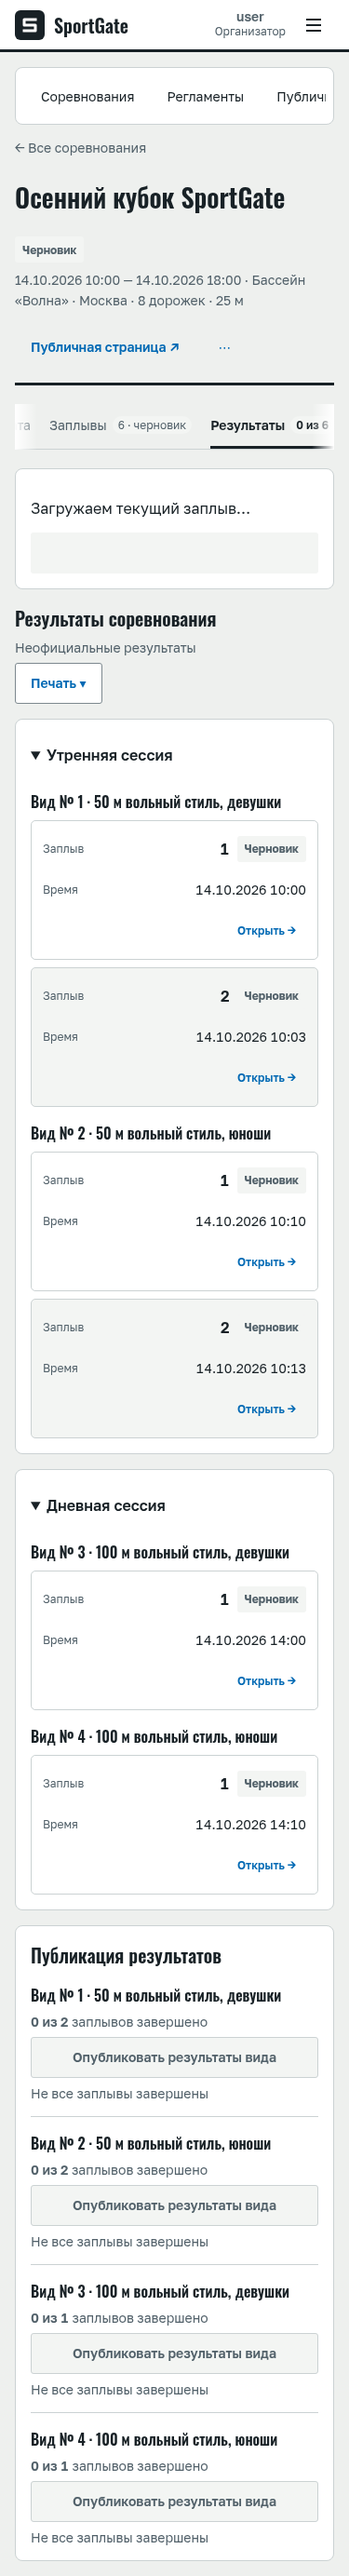
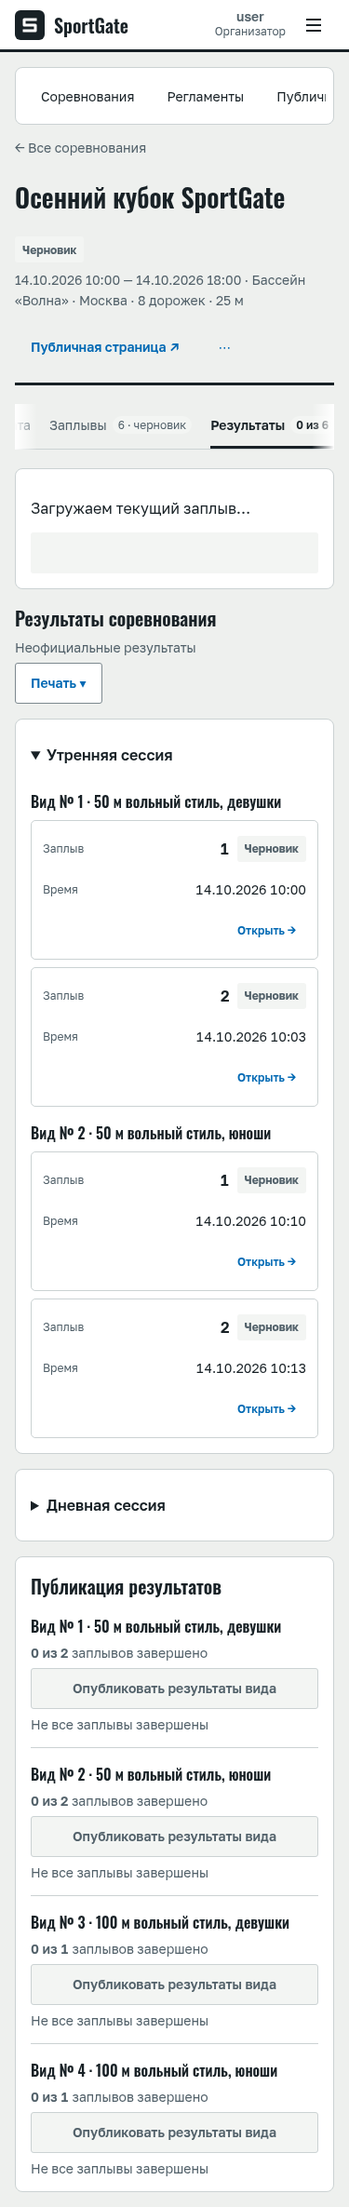
fix(organizer): restore results session list compatibility

diff --git a/sport-platform/frontend/src/features/organizer/OrganizerResultsPage.tsx b/sport-platform/frontend/src/features/organizer/OrganizerResultsPage.tsx
@@ -13,9 +13,10 @@ import { changeCompetitionUnitPublication } from '../../api/results.api'
 import { publishDisciplineResults } from '../../api/scheduling.api'
 import { LIVE_POLL_MS, usePublicData } from '../public/usePublicData'
 import { formatDate, useOrganizerEvent } from './organizer-event-context'
-import type { Heat } from '../../api/organizer.types'
+import type { Heat, SwimDiscipline } from '../../api/organizer.types'
 import styles from './ResultsTab.module.css'
 
+const disciplineNumber = (discipline: SwimDiscipline, index: number) => discipline.number ?? discipline.orderInSession ?? index + 1
 const published = (heat: Heat) => ['FINISHED', 'COMPLETED'].includes(heat.status)
 const complete = (heat: Heat) => published(heat) || (
   ['PUBLISHED', 'IN_PROGRESS'].includes(heat.status) && heat.entries.length > 0 &&
@@ -47,7 +48,14 @@ export function OrganizerResultsPage() {
     const units = heats.filter(h => h.eventDisciplineId === confirmation.id)
     const ok = await run(async () => {
       if (confirmation.published) await publishDisciplineResults(units, accessToken)
-      else for (const heat of units.filter(published)) await changeCompetitionUnitPublication(heat.id, false, accessToken)
+      else for (const heat of units.filter(published)) {
+        try {
+          await changeCompetitionUnitPublication(heat.id, false, accessToken)
+        } catch (cause) {
+          const message = cause instanceof Error ? cause.message : 'Повторите попытку.'
+          throw new Error(`Заплыв ${heat.sequenceNumber ?? heat.label}: ${message}`)
+        }
+      }
     })
     if (ok) {
       setConfirmation(null)
@@ -75,14 +83,14 @@ export function OrganizerResultsPage() {
       confirmLabel={confirmation.published ? 'Опубликовать' : 'Снять публикацию'} tone={confirmation.published ? 'primary' : 'danger'}
       busy={busy} error={error} onClose={() => setConfirmation(null)} onConfirm={() => void confirmPublication()} />}
     {!heats.length ? <EmptyState title="Заплывы пока не сформированы" action={<Button as={Link} to={`/organizer/events/${event.id}/heats`}>К заплывам</Button>}><p>Сначала сформируйте заплывы, затем введите результаты в судейской панели.</p></EmptyState> : <div className={styles.columns}>
-      <section className={styles.heatList} aria-label="Заплывы по сессиям">
-        {groups.map(group => <details className={styles.card} key={group.id} open>
+      <section className={`fl-judging-list ${styles.heatList}`} aria-label="Заплывы по сессиям">
+        {groups.map((group, index) => <details className={styles.card} key={group.id} open={index === 0}>
           <summary>{group.name}</summary>
           {group.disciplines.map(d => {
             const units = heats.filter(h => h.eventDisciplineId === d.id)
             if (!units.length) return null
             return <section key={d.id} className={styles.discipline}>
-              <h3>Вид № {d.number ?? d.orderInSession} · {d.name}</h3>
+              <h3>Вид № {disciplineNumber(d, event.disciplines.indexOf(d))} · {d.name}</h3>
               <div className={styles.tableScroll}>
                 <table className={`fl-table fl-table-compact ${styles.table}`}>
                   <caption className="fl-sr-only">Заплывы · {d.name}</caption>
@@ -91,7 +99,7 @@ export function OrganizerResultsPage() {
                     <td data-label="Заплыв" className={styles.number}>{heat.sequenceNumber ?? heat.label}</td>
                     <td data-label="Время" data-numeric>{formatDate(heat.scheduledAt, event.venue?.timezone)}</td>
                     <td data-label="Статус"><span className={styles.statuses}><StatusBadge kind="heat" code={heat.status} />{heat.entries.some(entry => entry.resultStatus === 'CORRECTED') && <StatusBadge kind="result" code="CORRECTED" />}</span></td>
-                    <td><Button as={Link} variant="ghost" to={`/operator/competition-units/${heat.id}?eventId=${event.id}`}>Открыть →</Button></td>
+                    <td><Button as={Link} variant="ghost" to={`/operator/competition-units/${heat.id}?eventId=${encodeURIComponent(event.id)}`}>Открыть →</Button></td>
                   </tr>)}</tbody>
                 </table>
               </div>
@@ -106,7 +114,7 @@ export function OrganizerResultsPage() {
           const allPublished = units.length > 0 && units.every(published)
           const reason = archived ? 'Соревнование в архиве: доступен только просмотр' : busy ? 'Дождитесь завершения текущего действия' : allPublished && units.some(h => h.status === 'COMPLETED') ? 'Результаты завершённого соревнования нельзя снять с публикации' : !units.length ? 'Сначала сформируйте заплывы' : !units.every(complete) ? 'Не все заплывы завершены' : undefined
           return <article className={styles.publicationRow} key={d.id}>
-            <h3>Вид № {d.number ?? index + 1} · {d.name}</h3>
+            <h3>Вид № {disciplineNumber(d, index)} · {d.name}</h3>
             <p className={styles.muted}><span className={styles.numeric}>{units.filter(complete).length} из {units.length}</span> заплывов завершено</p>
             <Button variant={!current && firstReady === d.id && !archived ? 'primary' : 'secondary'} disabled={!!reason} title={reason} aria-describedby={reason ? `publication-${d.id}` : undefined} onClick={() => { clearError(); setConfirmation({ id: d.id, published: !allPublished }) }}>{allPublished ? 'Снять публикацию' : 'Опубликовать результаты вида'}</Button>
             {reason && <small id={`publication-${d.id}`} className={styles.muted}>{reason}</small>}

diff --git a/sport-platform/frontend/src/features/organizer/PrintFormsControls.tsx b/sport-platform/frontend/src/features/organizer/PrintFormsControls.tsx
@@ -64,15 +64,19 @@ export function AwardsPrintControls() {
   const groups = event.disciplines.filter(d => !discipline || d.id === discipline).flatMap(d => d.ageGroups ?? []).filter((g, i, all) => all.findIndex(x => x.code === g.code) === i)
   const diplomaQuery = new URLSearchParams(query)
   if (group && scope === 'AGE_GROUP') diplomaQuery.set('ageGroupCode', group)
-  return <div className={resultsStyles.awards}>
-    <label className="fl-field">Область награждения<select value={scope} onChange={e => setScope(e.target.value)}><option value="AGE_GROUP">По возрастным группам</option><option value="ABSOLUTE">Абсолют</option></select></label>
-    <label className="fl-field">Число мест<input type="number" min="1" max="500" value={places} onChange={e => setPlaces(e.target.value)} /></label>
-    <label className="fl-field">Вид награждения<select value={discipline} onChange={e => { setDiscipline(e.target.value); setGroup('') }}><option value="">Все виды</option>{event.disciplines.map(d => <option key={d.id} value={d.id}>{d.name}</option>)}</select></label>
-    <label className="fl-field">Группа для грамот<select title={scope === 'ABSOLUTE' ? 'В абсолютном зачёте возрастные группы не используются' : undefined} disabled={scope === 'ABSOLUTE'} value={group} onChange={e => setGroup(e.target.value)}><option value="">Все группы</option>{groups.map(g => <option key={g.code} value={g.code}>{g.name}</option>)}</select>{scope === 'ABSOLUTE' && <small>В абсолютном зачёте возрастные группы не используются</small>}</label>
-    <ResultPdfButton path={`/api/v1/events/${event.id}/documents/awards.pdf?${query}`} filename="Лист-награждения.pdf" disabledReason={!validPlaces ? 'Введите число мест от 1 до 500' : undefined} accessToken={accessToken} label="Лист награждения (PDF)" />
-    <ResultPdfButton path={`/api/v1/events/${event.id}/documents/diplomas.pdf?${diplomaQuery}`} filename="Грамоты.pdf" disabledReason={!validPlaces ? 'Введите число мест от 1 до 500' : undefined} accessToken={accessToken} label="Грамоты (PDF)" />
-    <ResultPdfButton path={`/api/v1/events/${event.id}/documents/diplomas.pdf?sample=true`} filename="Пробная-грамота.pdf" accessToken={accessToken} label="Пробная грамота" />
-  </div>
+  return <>
+    <div className={resultsStyles.awards}>
+      <label className="fl-field">Область награждения<select value={scope} onChange={e => setScope(e.target.value)}><option value="AGE_GROUP">По возрастным группам</option><option value="ABSOLUTE">Абсолют</option></select></label>
+      <label className="fl-field">Число мест<input type="number" min="1" max="500" value={places} onChange={e => setPlaces(e.target.value)} /></label>
+      <label className="fl-field">Вид награждения<select value={discipline} onChange={e => { setDiscipline(e.target.value); setGroup('') }}><option value="">Все виды</option>{event.disciplines.map(d => <option key={d.id} value={d.id}>{d.name}</option>)}</select></label>
+      <label className="fl-field">Группа для грамот<select title={scope === 'ABSOLUTE' ? 'В абсолютном зачёте возрастные группы не используются' : undefined} disabled={scope === 'ABSOLUTE'} value={group} onChange={e => setGroup(e.target.value)}><option value="">Все группы</option>{groups.map(g => <option key={g.code} value={g.code}>{g.name}</option>)}</select>{scope === 'ABSOLUTE' && <small>В абсолютном зачёте возрастные группы не используются</small>}</label>
+    </div>
+    <ActionBar className={resultsStyles.printActions}>
+      <ResultPdfButton path={`/api/v1/events/${event.id}/documents/awards.pdf?${query}`} filename="Лист-награждения.pdf" disabledReason={!validPlaces ? 'Введите число мест от 1 до 500' : undefined} accessToken={accessToken} label="Лист награждения (PDF)" />
+      <ResultPdfButton path={`/api/v1/events/${event.id}/documents/diplomas.pdf?${diplomaQuery}`} filename="Грамоты.pdf" disabledReason={!validPlaces ? 'Введите число мест от 1 до 500' : undefined} accessToken={accessToken} label="Грамоты (PDF)" />
+      <ResultPdfButton path={`/api/v1/events/${event.id}/documents/diplomas.pdf?sample=true`} filename="Пробная-грамота.pdf" accessToken={accessToken} label="Пробная грамота" />
+    </ActionBar>
+  </>
 }
 
 // Local overflow sheet until the shared D04-2a OverflowMenu reaches main.

diff --git a/sport-platform/frontend/src/features/organizer/OrganizerResultsPage.test.tsx b/sport-platform/frontend/src/features/organizer/OrganizerResultsPage.test.tsx
@@ -108,10 +108,12 @@ it('keeps publication disabled when another heat in the same discipline is incom
 })
 
 it('opens the current heat through the existing judging route', () => {
+  state.context.event.id = 'cup / Москва'
   const heat = state.context.heats[0]
   state.live.data = { currentUnit: { id: heat.id, number: 1, disciplineName: '50 м' } }
   renderPage()
-  expect(screen.getByRole('link', { name: 'Открыть текущий заплыв' })).toHaveAttribute('href', `/operator/competition-units/${heat.id}?eventId=${state.context.event.id}`)
+  expect(screen.getByRole('link', { name: 'Открыть текущий заплыв' })).toHaveAttribute('href', `/operator/competition-units/${heat.id}?eventId=${encodeURIComponent(state.context.event.id)}`)
+  expect(screen.getByRole('link', { name: 'Открыть →' })).toHaveAttribute('href', `/operator/competition-units/${heat.id}?eventId=${encodeURIComponent(state.context.event.id)}`)
 })
 
 
@@ -120,4 +122,40 @@ it('explains why completed results cannot be unpublished', () => {
   renderPage()
   expect(screen.getByRole('button', { name: 'Снять публикацию' })).toBeDisabled()
   expect(screen.getByText('Результаты завершённого соревнования нельзя снять с публикации')).toBeVisible()
+})
+
+it('preserves the organizer session-list selector and opens only the first session', async () => {
+  state.context = { ...state.context, ...createFixtures() }
+  renderPage()
+  const list = screen.getByRole('region', { name: 'Заплывы по сессиям' })
+  expect(list).toHaveClass('fl-judging-list')
+  const first = within(list).getByText('Утренняя сессия').closest('details')
+  const second = within(list).getByText('Дневная сессия').closest('details')
+  expect(first).toHaveAttribute('open')
+  expect(second).not.toHaveAttribute('open')
+  await userEvent.click(within(list).getByText('Дневная сессия'))
+  expect(second).toHaveAttribute('open')
+})
+
+it('uses the same discipline number fallback in the heat list and publication list', () => {
+  state.context.event.disciplines[0].number = undefined
+  state.context.event.disciplines[0].orderInSession = 7
+  renderPage()
+  expect(screen.getAllByRole('heading', { name: /^Вид № 7 ·/ })).toHaveLength(2)
+})
+
+it('identifies the heat when unpublication fails', async () => {
+  state.context.heats = state.context.heats.map(h => ({ ...h, status: 'FINISHED', sequenceNumber: 3 }))
+  const failed = vi.fn()
+  state.context.run = vi.fn(async (action: () => Promise<unknown>) => {
+    try { await action(); return true }
+    catch (cause) { failed(cause); return false }
+  })
+  vi.mocked(changeCompetitionUnitPublication).mockRejectedValueOnce(new Error('Нет связи.'))
+  renderPage()
+  await userEvent.click(screen.getByRole('button', { name: 'Снять публикацию' }))
+  await userEvent.click(within(screen.getByRole('dialog')).getByRole('button', { name: 'Снять публикацию' }))
+  await waitFor(() => expect(failed).toHaveBeenCalledWith(new Error('Заплыв 3: Нет связи.')))
+  expect(screen.getByRole('dialog')).toBeVisible()
+  expect(state.toast).not.toHaveBeenCalled()
 })

diff --git a/sport-platform/frontend/src/features/organizer/ResultsTab.module.css b/sport-platform/frontend/src/features/organizer/ResultsTab.module.css
@@ -12,7 +12,7 @@
 .printHeading p { margin: 0; }
 .columns { display: grid; gap: var(--space-6); min-width: 0; }
 .discipline { margin-top: var(--space-4); min-width: 0; }
-.tableScroll { max-height: min(60vh, calc(var(--space-16) * 10)); overflow-x: auto; scrollbar-width: thin; overscroll-behavior-inline: contain; mask-image: linear-gradient(90deg, var(--color-text) calc(100% - var(--space-6)), transparent); scroll-padding-inline: var(--space-4); }
+.tableScroll { max-height: min(60vh, calc(var(--space-16) * 10)); overflow-x: auto; scrollbar-width: thin; overscroll-behavior-inline: contain; }
 .table { width: 100%; }
 .table td { white-space: normal; }
 .table td[data-numeric] { font-variant-numeric: var(--numeric-variant); }
@@ -41,10 +41,11 @@
 @media (min-width: 1366px) { .awards { grid-template-columns: repeat(4, minmax(0, 1fr)); } }
 @media (max-width: 767px) {
   .page, .heatList, .columns { gap: var(--space-4); }
-  .tableScroll { max-height: none; overflow: visible; mask-image: none; }
+  .tableScroll { max-height: none; overflow: visible; }
   .table, .table tbody { display: block; }
   .table thead { display: none; }
   .table tr { display: grid; grid-template-columns: minmax(0, 1fr) auto; gap: var(--space-2); padding: var(--space-3); border: 1px solid var(--border-subtle); border-radius: var(--radius-md); margin-top: var(--space-2); background: var(--surface-1); }
+  .page .table tbody tr:nth-child(even) { background: var(--surface-1); }
   .table td { display: flex; align-items: center; justify-content: space-between; gap: var(--space-2); padding: 0; border: 0; }
   .table td::before { content: attr(data-label); font-size: var(--text-xs); color: var(--color-text-muted); font-weight: normal; }
   .table td:nth-child(2) { grid-column: 1 / -1; grid-row: 2; }
